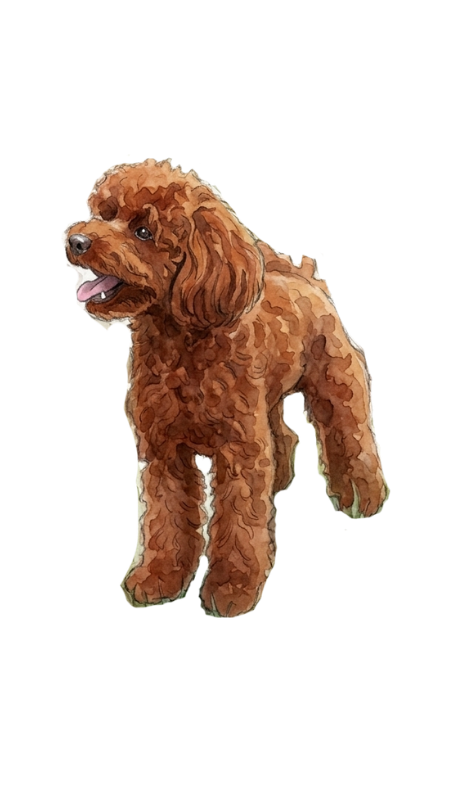
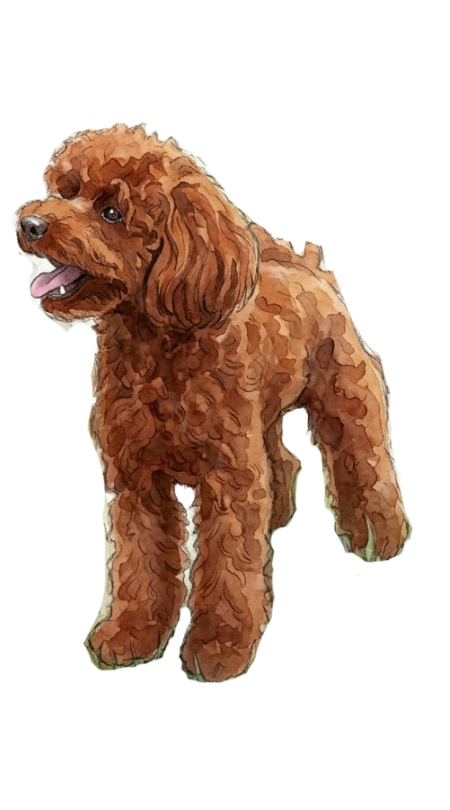
Larger pet portraits to match new tall image proportions

Changed region(s): [[0.0311, 0.1543, 0.9333, 0.8642]]

diff --git a/app/[lang]/page.tsx b/app/[lang]/page.tsx
@@ -109,16 +109,16 @@ export default function Home({ params }: { params: { lang: string } }) {
 
         {/* Pets — little portraits */}
         {settings.pets.length > 0 && (
-          <div className="mt-16 flex justify-center items-end gap-10 sm:gap-16 flex-wrap">
+          <div className="mt-16 flex justify-center items-end gap-8 sm:gap-14 flex-wrap">
             {settings.pets.map((pet) => (
               <div key={pet.name} className="text-center">
                 {/* eslint-disable-next-line @next/next/no-img-element */}
                 <img
                   src={pet.image}
                   alt={pet.name}
-                  className="block w-28 sm:w-36 h-auto mx-auto"
+                  className="block w-40 sm:w-52 md:w-60 h-auto mx-auto"
                 />
-                <p className="font-serif italic text-lg text-sageDark mt-3">
+                <p className="font-serif italic text-xl text-sageDark mt-4">
                   {pet.name}
                 </p>
               </div>